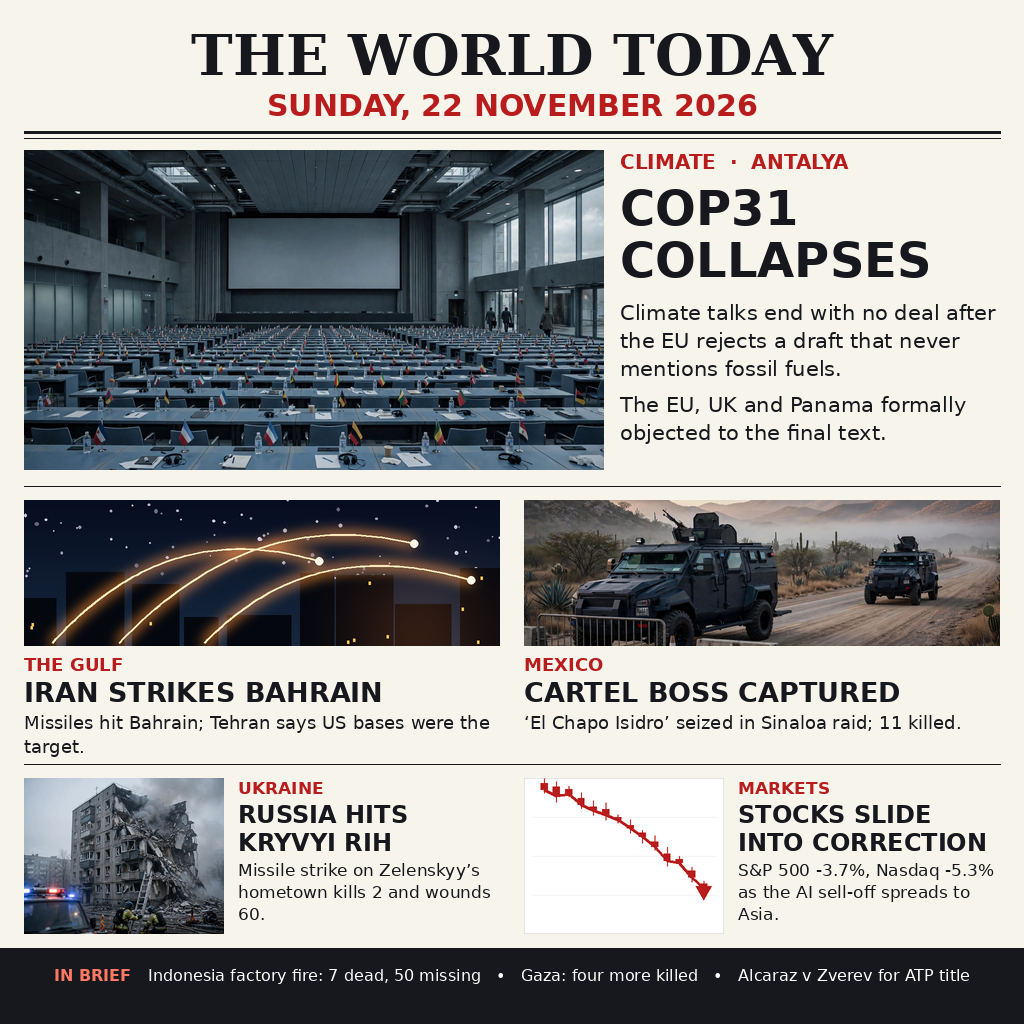
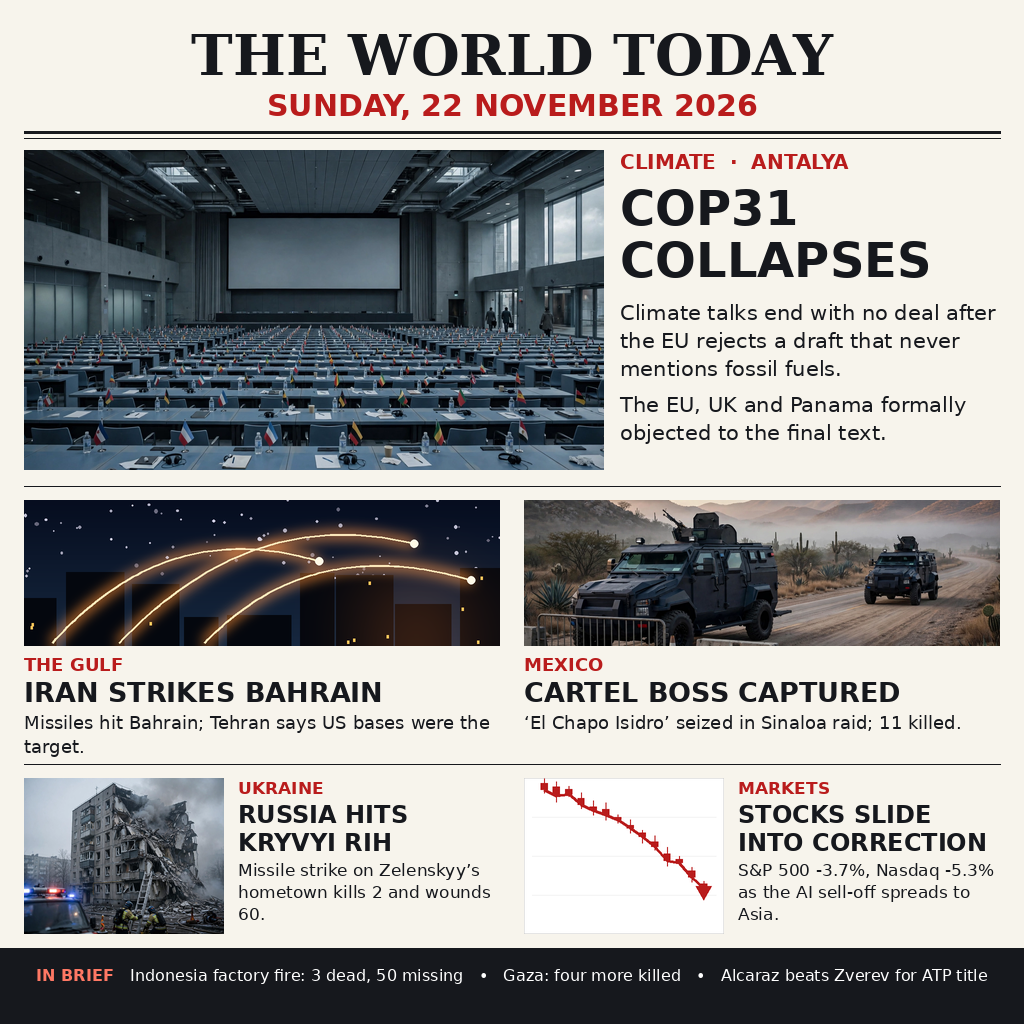
Add files via upload

Changed region(s): [[0.5, 0.9375, 0.9688, 0.9688], [0.0312, 0.9375, 0.4688, 0.9688]]

diff --git a/compose.py b/compose.py
@@ -258,9 +258,9 @@ def main():
     # ---- briefs band ----
     d.rectangle([0, 948, W, H], fill=INK)
     label = "IN BRIEF   "
-    items = ("Indonesia factory fire: 7 dead, 50 missing   \u2022   "
+    items = ("Indonesia factory fire: 3 dead, 50 missing   \u2022   "
              "Gaza: four more killed   \u2022   "
-             "Alcaraz v Zverev for ATP title")
+             "Alcaraz beats Zverev for ATP title")
     # shrink the type until the whole line fits with margins
     size = 16
     while size > 10:
